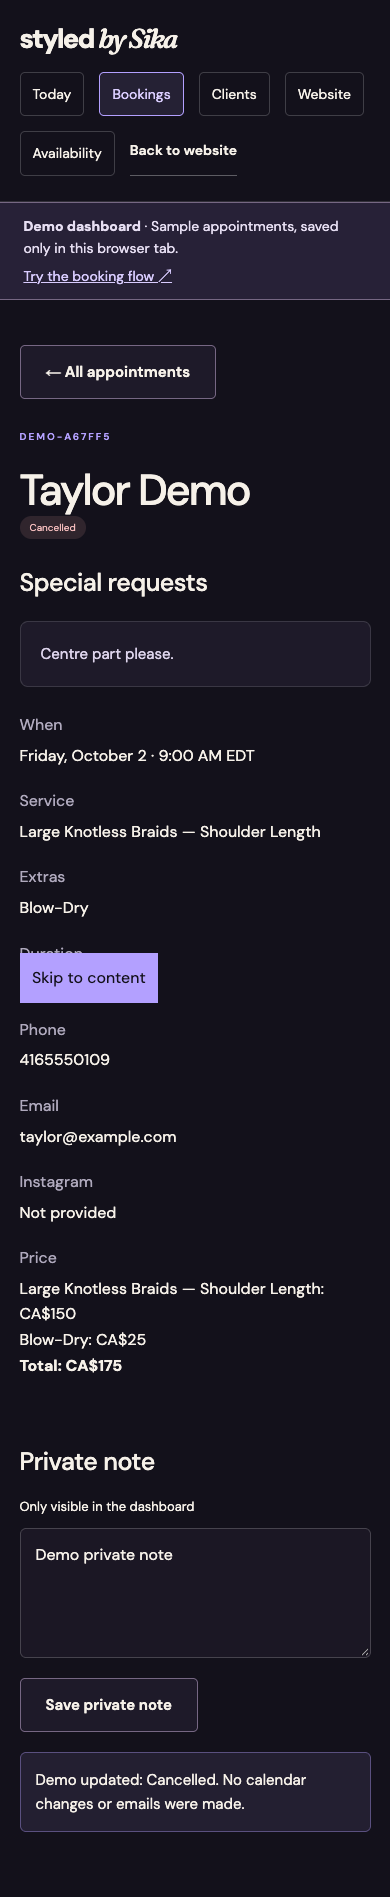
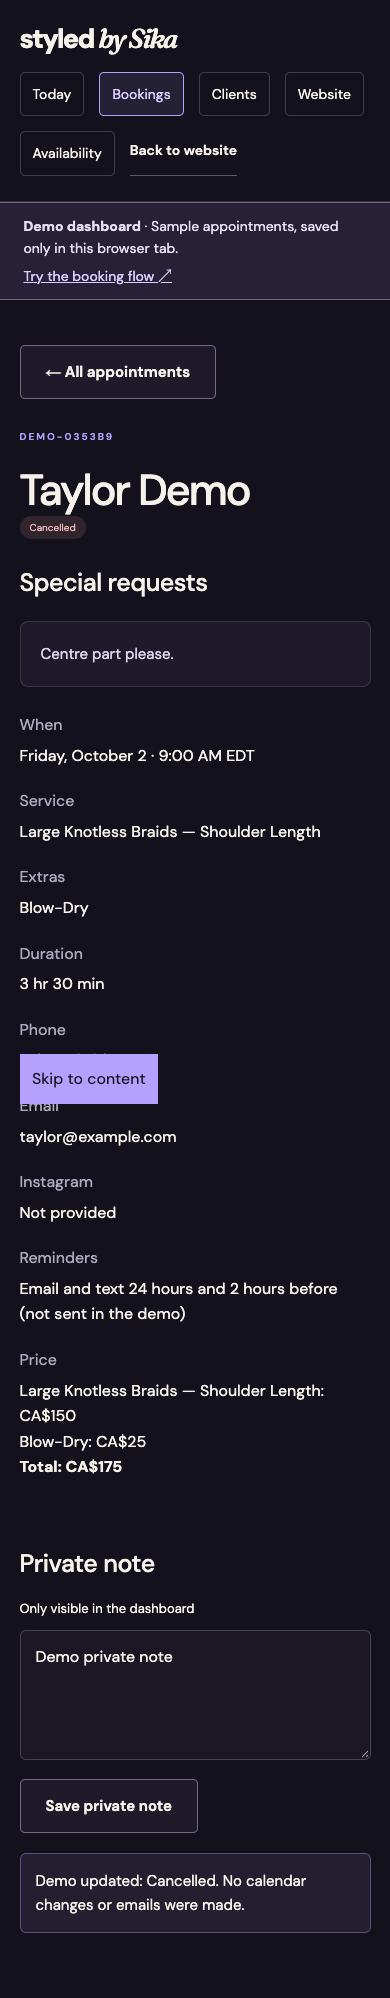
Send confirmations and reminders by email and text
- Reminders 24 hours and 2 hours before every pending or confirmed
  appointment; pending ones are told the deposit is still needed. Each
  reminder is claimed in the database before sending (migration 007),
  and the 24-hour one is skipped for bookings made less than a day out.
- Optional Twilio texts for booking received, deposit received,
  cancellation and both reminders; email-only when Twilio isn't set.
- Supabase pg_cron calls /api/jobs every 10 minutes (npm run
  cron:setup), which also retries failed confirmations.
- Booking detail shows reminder status; the booking form says where
  confirmations and reminders go.

diff --git a/components/booking-flow.tsx b/components/booking-flow.tsx
@@ -20,7 +20,7 @@ type Receipt={id:string;reference:string;start_at:string;end_at:string;price_cen
 const policyLink=<Link href="/#before-you-book" target="_blank">booking policies</Link>;
 // Links use readable slugs; ids are accepted too. Resolved on the client so demo edits (new services) work as well.
 function resolve(catalog:Catalog,service:string,extras:string[]):Selection{const s=catalog.services.find(x=>x.slug===service||x.id===service);return {service:s?.id??'',extras:[...new Set(extras.map(x=>catalog.extras.find(e=>(e.slug===x||e.id===x)&&e.bookable)?.id).filter((id):id is string=>!!id))]};}
-export function BookingFlow({content,initialService,initialExtras,ready}:{content:SiteContent;initialService:string;initialExtras:string[];ready:boolean}){
+export function BookingFlow({content,initialService,initialExtras,ready,smsEnabled=false}:{content:SiteContent;initialService:string;initialExtras:string[];ready:boolean;smsEnabled?:boolean}){
  const site=useSiteContent(content);
  const catalog=useMemo<Catalog>(()=>({services:site.services,extras:site.extras,placeholder:site.placeholder}),[site]);
  const [selection,setSelection]=useState<Selection>(()=>resolve(catalog,initialService,initialExtras));
@@ -46,7 +46,7 @@ export function BookingFlow({content,initialService,initialExtras,ready}:{conten
  return <div id="booking-top"><div className="booking-progress" aria-label={`Step ${step+1} of 4`}>{['Service','Date & time','Details','Review'].map((s,i)=><span className={step===i?'active':''} key={s} aria-current={step===i?'step':undefined}><b>{i+1}</b>{s}</span>)}</div><div className="estimator-grid"><div>
  {step===0&&picker}
  {step===1&&<section><h2 className="small-heading">Choose a date and time.</h2><p className="muted">All times in Vaughan, Ontario (America/Toronto).</p><div className="calendar-header"><button className="icon-button" aria-label="Previous month" disabled={month<=startOfMonth(new Date())} onClick={()=>setMonth(addMonths(month,-1))}><ChevronLeft size={18}/></button><strong>{format(month,'MMMM yyyy')}</strong><button className="icon-button" aria-label="Next month" disabled={month>=startOfMonth(new Date(Date.now()+60*86400000))} onClick={()=>setMonth(addMonths(month,1))}><ChevronRight size={18}/></button></div><div className="calendar-grid">{['Su','Mo','Tu','We','Th','Fr','Sa'].map(d=><span className="weekday" key={d}>{d}</span>)}{Array.from({length:month.getDay()},(_,i)=><span key={`blank-${i}`}/>)}{Array.from({length:getDaysInMonth(month)},(_,i)=>{const date=format(new Date(month.getFullYear(),month.getMonth(),i+1),'yyyy-MM-dd');return <button key={date} type="button" aria-label={format(new Date(month.getFullYear(),month.getMonth(),i+1),'EEEE, MMMM d')} aria-pressed={day===date} disabled={!slots[date]?.length||loading} className={day===date?'selected':''} onClick={()=>{setDay(date);setStart('');}}>{i+1}</button>;})}</div><p className="fine-print" role="status">{loading?'Checking the calendar…':isDemo?'Sample appointment times for demonstration only.':'Highlighted dates have available times.'}</p>{day&&<fieldset><legend>Available times</legend><div className="chips">{slots[day]?.map(time=><button type="button" className={`chip ${start===time?'selected':''}`} aria-pressed={start===time} key={time} onClick={()=>{setStart(time);setKey(crypto.randomUUID());}}>{formatInTimeZone(time,'America/Toronto','h:mm a')}</button>)}</div></fieldset>}<p className="notice">None of these times work? <a className="text-link" href={ig.dm} target="_blank" rel="noreferrer">Message me on Instagram ↗</a></p></section>}
- {step===2&&<form id="details-form" onSubmit={form.handleSubmit(()=>move(3))} noValidate><h2 className="small-heading">Your contact details.</h2><div className="form-grid">{([['name','Full name'],['phone','Phone number'],['email','Email address'],['instagram','Instagram handle (optional)']] as const).map(([key,label])=><div key={key}><label className="field-label" htmlFor={key}>{label}</label><input id={key} {...form.register(key)} type={key==='email'?'email':key==='phone'?'tel':'text'} autoComplete={key==='name'?'name':key==='phone'?'tel':key==='email'?'email':'off'} aria-invalid={!!form.formState.errors[key]} aria-describedby={form.formState.errors[key]?`${key}-error`:undefined}/>{form.formState.errors[key]&&<p className="field-error" id={`${key}-error`}>{form.formState.errors[key]?.message}</p>}</div>)}<div className="span-two"><label className="field-label" htmlFor="notes">Anything you’d like me to know? (optional)</label><textarea id="notes" {...form.register('notes')} maxLength={300} placeholder="Special requests or anything I should know about your hair…"/><span className="fine-print">Up to 300 characters.</span></div><label className="honeypot" aria-hidden="true">Website<input {...form.register('website')} tabIndex={-1} autoComplete="off"/></label><label className="check-label span-two"><input type="checkbox" {...form.register('prep')}/><span>I have read and agree to the {policyLink}.</span></label>{form.formState.errors.prep&&<p className="field-error">{form.formState.errors.prep.message}</p>}</div></form>}
+ {step===2&&<form id="details-form" onSubmit={form.handleSubmit(()=>move(3))} noValidate><h2 className="small-heading">Your contact details.</h2><div className="form-grid">{([['name','Full name'],['phone','Phone number'],['email','Email address'],['instagram','Instagram handle (optional)']] as const).map(([key,label])=><div key={key}><label className="field-label" htmlFor={key}>{label}</label><input id={key} {...form.register(key)} type={key==='email'?'email':key==='phone'?'tel':'text'} autoComplete={key==='name'?'name':key==='phone'?'tel':key==='email'?'email':'off'} aria-invalid={!!form.formState.errors[key]} aria-describedby={form.formState.errors[key]?`${key}-error`:undefined}/>{key==='phone'&&smsEnabled&&<p className="fine-print">Your confirmation and reminders are texted here.</p>}{key==='email'&&<p className="fine-print">Your confirmation and reminders are emailed here.</p>}{form.formState.errors[key]&&<p className="field-error" id={`${key}-error`}>{form.formState.errors[key]?.message}</p>}</div>)}<div className="span-two"><label className="field-label" htmlFor="notes">Anything you’d like me to know? (optional)</label><textarea id="notes" {...form.register('notes')} maxLength={300} placeholder="Special requests or anything I should know about your hair…"/><span className="fine-print">Up to 300 characters.</span></div><label className="honeypot" aria-hidden="true">Website<input {...form.register('website')} tabIndex={-1} autoComplete="off"/></label><label className="check-label span-two"><input type="checkbox" {...form.register('prep')}/><span>I have read and agree to the {policyLink}.</span></label>{form.formState.errors.prep&&<p className="field-error">{form.formState.errors.prep.message}</p>}</div></form>}
  {step===3&&<section><h2 className="small-heading">Review your appointment.</h2><dl className="review-list"><dt>Service</dt><dd>{q?.service.name}</dd><dt>Extras</dt><dd>{q?.extras.map(e=>e.name).join(', ')||'None'}</dd><dt>Your time</dt><dd>{start&&formatInTimeZone(start,'America/Toronto','EEEE, MMMM d · h:mm a zzz')}</dd><dt>Your details</dt><dd>{form.getValues('name')}<br/>{form.getValues('phone')}<br/>{form.getValues('email')}</dd><dt>Your notes</dt><dd>{form.getValues('notes')||'No special requests.'}</dd></dl><div className="notice">{isDemo?'This will save a sample appointment in this browser tab. No calendar event, email, or payment will be created.':'Your appointment is confirmed once your deposit is received. Deposit details appear after your request is saved.'}</div></section>}
  {error&&<div role="alert" className="status-message">{error}</div>}<div className="booking-actions">{step>0?<button className="button button-outline" onClick={()=>move(step-1)} disabled={submitting}>Back</button>:<span/>}{step===2?<button className="button" type="submit" form="details-form">Review booking <ArrowRight size={17}/></button>:step===3?<button className="button" onClick={submit} disabled={submitting}>{submitting?'Saving your appointment…':'Confirm booking'}</button>:<button className="button" disabled={!q||(step===1&&!start)} onClick={()=>move(step+1)}> {step===0?'Choose your time':'Your details'} <ArrowRight size={17}/></button>}</div></div>{summary}</div></div>;
 }

diff --git a/app/admin/bookings/[id]/page.tsx b/app/admin/bookings/[id]/page.tsx
@@ -8,4 +8,4 @@ import { statusLabel } from '@/lib/admin';
 import { priceLabel, durationLabel } from '@/lib/pricing';
 import type { Booking } from '@/lib/types';
 import { AdminActions } from '@/components/admin-actions';
-export default async function Detail({params}:{params:Promise<{id:string}>}){await requireAdmin();const {id}=await params;if(!z.uuid().safeParse(id).success)notFound();const {data,error}=await db().from('bookings').select('*').eq('id',id).maybeSingle();if(error)throw error;if(!data)notFound();const b=data as Booking;return <><Link href="/admin/bookings" className="text-link">← All bookings</Link><div className="eyebrow" style={{marginTop:30}}>{b.reference}</div><h1 className="page-title">{b.client_name}</h1><span className={`badge ${b.status}`}>{statusLabel[b.status]}</span>{b.sync_state!=='synced'&&<p className="notice">Calendar or email confirmation is still processing. David has been alerted if an update failed.</p>}<h2 className="small-heading">Special requests</h2><div className="notice" style={{whiteSpace:'pre-wrap'}}>{b.client_notes||'No special requests.'}</div><dl className="review-list"><dt>When</dt><dd>{formatInTimeZone(b.start_at,b.snapshot.timezone,'EEEE, MMMM d, yyyy · h:mm a zzz')}</dd><dt>Service</dt><dd>{b.snapshot.style}</dd><dt>Extras</dt><dd>{b.snapshot.addons.join(', ')||'None'}</dd><dt>Time together</dt><dd>{durationLabel(b.duration_min)}</dd><dt>Phone</dt><dd><a href={`tel:${b.client_phone}`}>{b.client_phone} ↗</a> · <a href={`sms:${b.client_phone}`}>Text client</a></dd><dt>Email</dt><dd><a href={`mailto:${b.client_email}`}>{b.client_email} ↗</a></dd><dt>Instagram</dt><dd>{b.client_instagram?<a href={`https://instagram.com/${encodeURIComponent(b.client_instagram.replace(/^@/,''))}`} target="_blank" rel="noreferrer">{b.client_instagram} ↗</a>:'Not provided'}</dd><dt>Price</dt><dd>{b.snapshot.breakdown.map((l,i)=><div key={i}>{l.label}: {priceLabel(l)}</div>)}<strong>Total: {b.snapshot.estimate}</strong></dd><dt>Booked</dt><dd>{formatInTimeZone(b.created_at,b.snapshot.timezone,'MMM d, yyyy · h:mm a')}</dd></dl>{b.calendar_url&&<a className="text-link" href={b.calendar_url} target="_blank" rel="noreferrer">Open in Google Calendar ↗</a>}<AdminActions id={id} status={b.status} initialNote={b.admin_notes??''}/></>;}
+export default async function Detail({params}:{params:Promise<{id:string}>}){await requireAdmin();const {id}=await params;if(!z.uuid().safeParse(id).success)notFound();const {data,error}=await db().from('bookings').select('*').eq('id',id).maybeSingle();if(error)throw error;if(!data)notFound();const b=data as Booking;return <><Link href="/admin/bookings" className="text-link">← All bookings</Link><div className="eyebrow" style={{marginTop:30}}>{b.reference}</div><h1 className="page-title">{b.client_name}</h1><span className={`badge ${b.status}`}>{statusLabel[b.status]}</span>{b.sync_state!=='synced'&&<p className="notice">Calendar or email confirmation is still processing. David has been alerted if an update failed.</p>}<h2 className="small-heading">Special requests</h2><div className="notice" style={{whiteSpace:'pre-wrap'}}>{b.client_notes||'No special requests.'}</div><dl className="review-list"><dt>When</dt><dd>{formatInTimeZone(b.start_at,b.snapshot.timezone,'EEEE, MMMM d, yyyy · h:mm a zzz')}</dd><dt>Service</dt><dd>{b.snapshot.style}</dd><dt>Extras</dt><dd>{b.snapshot.addons.join(', ')||'None'}</dd><dt>Time together</dt><dd>{durationLabel(b.duration_min)}</dd><dt>Phone</dt><dd><a href={`tel:${b.client_phone}`}>{b.client_phone} ↗</a> · <a href={`sms:${b.client_phone}`}>Text client</a></dd><dt>Email</dt><dd><a href={`mailto:${b.client_email}`}>{b.client_email} ↗</a></dd><dt>Instagram</dt><dd>{b.client_instagram?<a href={`https://instagram.com/${encodeURIComponent(b.client_instagram.replace(/^@/,''))}`} target="_blank" rel="noreferrer">{b.client_instagram} ↗</a>:'Not provided'}</dd><dt>Price</dt><dd>{b.snapshot.breakdown.map((l,i)=><div key={i}>{l.label}: {priceLabel(l)}</div>)}<strong>Total: {b.snapshot.estimate}</strong></dd><dt>Booked</dt><dd>{formatInTimeZone(b.created_at,b.snapshot.timezone,'MMM d, yyyy · h:mm a')}</dd><dt>Reminders</dt><dd>{[['24 hours before',b.reminder_day_sent_at],['2 hours before',b.reminder_2h_sent_at]].map(([label,at])=><div key={label}>{label}: {at?`sent ${formatInTimeZone(at,b.snapshot.timezone,'MMM d, h:mm a')}`:['cancelled','no_show','completed'].includes(b.status)?'not needed':'scheduled'}</div>)}</dd></dl>{b.calendar_url&&<a className="text-link" href={b.calendar_url} target="_blank" rel="noreferrer">Open in Google Calendar ↗</a>}<AdminActions id={id} status={b.status} initialNote={b.admin_notes??''}/></>;}

diff --git a/lib/reminder-rules.ts b/lib/reminder-rules.ts
@@ -1,0 +1,54 @@
+import { formatInTimeZone } from 'date-fns-tz';
+import type { SiteText } from './content';
+
+// When reminders go out, in minutes before the appointment. The scheduler checks every 10 minutes.
+export const reminderOffsets = { day: 24 * 60, soon: 120 } as const;
+export type ReminderKind = keyof typeof reminderOffsets;
+type Timing = { status: string; start_at: string; created_at: string; reminder_day_sent_at?: string | null; reminder_2h_sent_at?: string | null };
+
+// Which reminder (if any) is due now. The 2-hour one wins; the 24-hour one is skipped when the client
+// booked less than a day ahead (their confirmation just arrived) or when it is already within 3 hours.
+export function dueReminder(b: Timing, now: Date): ReminderKind | null {
+  if (!['pending_deposit', 'confirmed'].includes(b.status)) return null;
+  const start = new Date(b.start_at).getTime(), t = now.getTime(), minute = 60000;
+  if (start <= t) return null;
+  if (!b.reminder_2h_sent_at && start - t <= reminderOffsets.soon * minute) return 'soon';
+  const bookedAhead = start - new Date(b.created_at).getTime();
+  if (!b.reminder_day_sent_at && start - t <= reminderOffsets.day * minute && start - t > 3 * 60 * minute && bookedAhead > 26 * 60 * minute) return 'day';
+  return null;
+}
+
+// Canadian and US numbers to E.164 (+1XXXXXXXXXX); anything else must already include its country code.
+export function toE164(phone: string): string | null {
+  const digits = phone.replace(/[^\d+]/g, '');
+  if (/^\+\d{8,15}$/.test(digits)) return digits;
+  const d = digits.replace(/\+/g, '');
+  if (d.length === 10) return `+1${d}`;
+  if (d.length === 11 && d.startsWith('1')) return `+${d}`;
+  return null;
+}
+
+type BookingLike = { client_name: string; start_at: string; status: string; snapshot: { style: string; timezone: string } };
+const first = (name: string) => name.trim().split(/\s+/)[0] || 'there';
+
+export function reminderMessage(kind: ReminderKind, b: BookingLike, text: SiteText) {
+  const tz = b.snapshot.timezone || 'America/Toronto';
+  const when = formatInTimeZone(b.start_at, tz, kind === 'day' ? "EEEE, MMMM d 'at' h:mm a" : "'today at' h:mm a");
+  const pending = b.status === 'pending_deposit';
+  const prep = text.policies.find(p => p.id === 'hair-prep');
+  const prepLines = prep ? [prep.intro, ...prep.items.map(i => `• ${i}`), prep.outro].filter(Boolean).join('\n') : '';
+  const deposit = pending ? `\n\nYour appointment is not confirmed until your deposit has been received.\n${text.depositSummary}` : '';
+  const subject = kind === 'day' ? 'Reminder: your Styled by Sika appointment tomorrow' : 'See you soon: your Styled by Sika appointment is today';
+  const email = `Hi ${first(b.client_name)},\n\nThis is a reminder of your ${b.snapshot.style} appointment ${when}.${deposit}${kind === 'day' && prepLines ? `\n\n${prepLines}` : ''}\n\nNeed to reschedule? A minimum of 48 hours’ notice is required. Message ${text.instagramHandle} on Instagram or reply to ${text.email}.\n\nThank you for choosing Styled by Sika 🤎`;
+  const sms = kind === 'day'
+    ? `Styled by Sika: reminder of your ${b.snapshot.style} appointment ${when}.${pending ? ' Not confirmed until your deposit is received.' : ''} Please arrive with hair washed, dried and detangled. Questions? DM ${text.instagramHandle}. Reply STOP to opt out.`
+    : `Styled by Sika: see you ${when} for your ${b.snapshot.style} appointment.${pending ? ' Deposit still needed to confirm.' : ''} Reply STOP to opt out.`;
+  return { subject, email, sms };
+}
+
+export function bookingSms(kind: 'created' | 'confirmed' | 'cancelled', b: BookingLike, text: SiteText) {
+  const when = formatInTimeZone(b.start_at, b.snapshot.timezone || 'America/Toronto', "EEE, MMM d 'at' h:mm a");
+  if (kind === 'created') return `Styled by Sika: request received for ${b.snapshot.style} on ${when}. Your appointment is confirmed once your deposit is received; details are in your email. Reply STOP to opt out.`;
+  if (kind === 'confirmed') return `Styled by Sika: deposit received. Your ${b.snapshot.style} appointment on ${when} is confirmed. See you then!`;
+  return `Styled by Sika: your appointment on ${when} has been cancelled. Questions? DM ${text.instagramHandle}.`;
+}

diff --git a/tests/unit/reminders.test.ts b/tests/unit/reminders.test.ts
@@ -1,0 +1,48 @@
+import { describe, expect, it } from 'vitest';
+import { bookingSms, dueReminder, reminderMessage, toE164 } from '../../lib/reminder-rules';
+import { defaultText } from '../../lib/content';
+const start = '2027-03-10T15:00:00Z'; // 10:00 AM Toronto (EST)
+const at = (hoursBefore: number) => new Date(new Date(start).getTime() - hoursBefore * 3600000);
+const booking = { status: 'confirmed', start_at: start, created_at: '2027-03-01T12:00:00Z', reminder_day_sent_at: null, reminder_2h_sent_at: null };
+describe('appointment reminders', () => {
+ it('sends the 24-hour reminder from a day before until three hours before', () => {
+  expect(dueReminder(booking, at(25))).toBeNull();
+  expect(dueReminder(booking, at(24))).toBe('day');
+  expect(dueReminder(booking, at(4))).toBe('day');
+  expect(dueReminder(booking, at(2.5))).toBeNull();
+  expect(dueReminder({ ...booking, reminder_day_sent_at: at(24).toISOString() }, at(20))).toBeNull();
+ });
+ it('sends the 2-hour reminder once, and never after the start', () => {
+  expect(dueReminder(booking, at(2))).toBe('soon');
+  expect(dueReminder(booking, at(0.5))).toBe('soon');
+  expect(dueReminder({ ...booking, reminder_2h_sent_at: at(2).toISOString() }, at(1))).toBeNull();
+  expect(dueReminder(booking, at(-0.1))).toBeNull();
+ });
+ it('skips the 24-hour reminder when the client booked less than a day ahead, and skips inactive bookings', () => {
+  expect(dueReminder({ ...booking, created_at: at(25).toISOString() }, at(23))).toBeNull();
+  expect(dueReminder({ ...booking, created_at: at(25).toISOString() }, at(2))).toBe('soon');
+  for (const status of ['cancelled', 'no_show', 'completed']) expect(dueReminder({ ...booking, status }, at(2))).toBeNull();
+  expect(dueReminder({ ...booking, status: 'pending_deposit' }, at(24))).toBe('day');
+ });
+ it('formats phone numbers for texting', () => {
+  expect(toE164('416-555-0101')).toBe('+14165550101');
+  expect(toE164('1 (647) 555 0101')).toBe('+16475550101');
+  expect(toE164('+44 7700 900123')).toBe('+447700900123');
+  expect(toE164('12345')).toBeNull();
+ });
+ it('writes clear reminder and booking messages with her details', () => {
+  const b = { client_name: 'Taylor Client', start_at: start, status: 'pending_deposit', snapshot: { style: 'Large Knotless Braids — Shoulder Length', timezone: 'America/Toronto' } };
+  const day = reminderMessage('day', b, defaultText());
+  expect(day.subject).toContain('tomorrow');
+  expect(day.email).toContain('Hi Taylor');
+  expect(day.email).toContain('Wednesday, March 10 at 10:00 AM');
+  expect(day.email).toContain('not confirmed until your deposit');
+  expect(day.email).toContain('Freshly washed');
+  expect(day.sms).toContain('@styledby.sika');
+  expect(day.sms.length).toBeLessThan(320);
+  const soon = reminderMessage('soon', { ...b, status: 'confirmed' }, defaultText());
+  expect(soon.sms).toContain('today at 10:00 AM');
+  expect(soon.sms).not.toContain('Deposit');
+  expect(bookingSms('confirmed', b, defaultText())).toContain('confirmed');
+ });
+});

diff --git a/lib/reminders.ts b/lib/reminders.ts
@@ -1,0 +1,39 @@
+import 'server-only';
+import { db, getContent } from './db';
+import { dueReminder, reminderMessage, toE164 } from './reminder-rules';
+import { emailConfigured, sendEmail, sendSms, smsConfigured } from './notify';
+import type { Booking } from './types';
+
+// Called by the scheduler (GET /api/jobs every 10 minutes). Each reminder is claimed in the database before
+// sending, so overlapping runs never send it twice.
+export async function sendDueReminders(now = new Date()) {
+  if (!emailConfigured() && !smsConfigured()) return 0;
+  const client = db();
+  const { data, error } = await client.from('bookings').select('*').in('status', ['pending_deposit', 'confirmed'])
+    .gt('start_at', now.toISOString()).lte('start_at', new Date(now.getTime() + 25 * 3600000).toISOString());
+  if (error) throw error;
+  const text = (await getContent()).text;
+  let sent = 0;
+  for (const b of (data ?? []) as (Booking & { reminder_day_sent_at: string | null; reminder_2h_sent_at: string | null })[]) {
+    const kind = dueReminder(b, now);
+    if (!kind) continue;
+    const column = kind === 'day' ? 'reminder_day_sent_at' : 'reminder_2h_sent_at';
+    // A 2-hour reminder also retires a 24-hour one that never went out.
+    const claim = { [column]: now.toISOString(), ...(kind === 'soon' && !b.reminder_day_sent_at ? { reminder_day_sent_at: now.toISOString() } : {}) };
+    const { data: claimed, error: claimError } = await client.from('bookings').update(claim).eq('id', b.id).is(column, null).select('id');
+    if (claimError) throw claimError;
+    if (!claimed?.length) continue;
+    const message = reminderMessage(kind, b, text);
+    const results = await Promise.allSettled([
+      emailConfigured() && b.client_email ? sendEmail(b.client_email, message.subject, message.email, `${b.id}-reminder-${kind}`) : Promise.resolve(),
+      smsConfigured() && toE164(b.client_phone) ? sendSms(toE164(b.client_phone)!, message.sms) : Promise.resolve(),
+    ]);
+    const failures = results.filter(r => r.status === 'rejected');
+    if (failures.length === results.length) {
+      // Nothing went out: release the claim so the next run tries again.
+      await client.from('bookings').update({ [column]: null }).eq('id', b.id);
+      console.error('Reminder failed', { booking: b.id, kind, errors: failures.map(f => (f as PromiseRejectedResult).reason?.message) });
+    } else { sent++; if (failures.length) console.error('Reminder partly sent', { booking: b.id, kind }); }
+  }
+  return sent;
+}

diff --git a/components/demo-dashboard.tsx b/components/demo-dashboard.tsx
@@ -53,7 +53,7 @@ export function DemoDashboard() {
         <button className="button button-outline" onClick={() => setSelected(null)}>← All appointments</button>
         <div className="eyebrow" style={{marginTop:30}}>{booking.reference}</div><h1 className="page-title">{booking.client_name}</h1><span className={`badge ${booking.status}`}>{labels[booking.status]}</span>
         <h2 className="small-heading">Special requests</h2><p className="notice">{booking.client_notes || 'No special requests.'}</p>
-        <dl className="review-list"><dt>When</dt><dd>{formatInTimeZone(booking.start_at,'America/Toronto','EEEE, MMMM d · h:mm a zzz')}</dd><dt>Service</dt><dd>{booking.snapshot.style}</dd><dt>Extras</dt><dd>{booking.snapshot.addons.join(', ') || 'None'}</dd><dt>Duration</dt><dd>{durationLabel(booking.duration_min)}</dd><dt>Phone</dt><dd>{booking.client_phone}</dd><dt>Email</dt><dd>{booking.client_email}</dd><dt>Instagram</dt><dd>{booking.client_instagram || 'Not provided'}</dd><dt>Price</dt><dd>{booking.snapshot.breakdown.map((item,i) => <div key={i}>{item.label}: {priceLabel(item)}</div>)}<strong>Total: {booking.snapshot.estimate}</strong></dd></dl>
+        <dl className="review-list"><dt>When</dt><dd>{formatInTimeZone(booking.start_at,'America/Toronto','EEEE, MMMM d · h:mm a zzz')}</dd><dt>Service</dt><dd>{booking.snapshot.style}</dd><dt>Extras</dt><dd>{booking.snapshot.addons.join(', ') || 'None'}</dd><dt>Duration</dt><dd>{durationLabel(booking.duration_min)}</dd><dt>Phone</dt><dd>{booking.client_phone}</dd><dt>Email</dt><dd>{booking.client_email}</dd><dt>Instagram</dt><dd>{booking.client_instagram || 'Not provided'}</dd><dt>Reminders</dt><dd>Email and text 24 hours and 2 hours before (not sent in the demo)</dd><dt>Price</dt><dd>{booking.snapshot.breakdown.map((item,i) => <div key={i}>{item.label}: {priceLabel(item)}</div>)}<strong>Total: {booking.snapshot.estimate}</strong></dd></dl>
         <div className="admin-actions">
           {booking.status === 'pending_deposit' && <button className="button" onClick={() => update('confirmed')}>Mark deposit paid</button>}
           {booking.status === 'confirmed' && <button className="button" onClick={() => update('completed')}>Mark completed</button>}

diff --git a/lib/launch-readiness.ts b/lib/launch-readiness.ts
@@ -4,11 +4,14 @@ import type { BusinessSettings } from './types';
 export const bookingEnvironmentKeys = [
  'NEXT_PUBLIC_SUPABASE_URL', 'NEXT_PUBLIC_SUPABASE_ANON_KEY', 'SUPABASE_SERVICE_ROLE_KEY', 'ADMIN_EMAIL',
  'RESEND_API_KEY', 'BRAIDER_EMAIL', 'FROM_EMAIL', 'NEXT_PUBLIC_SITE_URL',
+ // Authorises the scheduler that sends reminders and retries (npm run cron:setup).
+ 'CRON_SECRET',
 ] as const;
-// Nice to have; the site works without them (no Google Calendar sync, in-memory rate limiting, no cron retries).
+// Nice to have; the site works without them (no Google Calendar sync, in-memory rate limiting, email-only messages).
 export const optionalEnvironmentKeys = [
  'GOOGLE_SERVICE_ACCOUNT_EMAIL', 'GOOGLE_SERVICE_ACCOUNT_PRIVATE_KEY', 'GOOGLE_CALENDAR_ID',
- 'UPSTASH_REDIS_REST_URL', 'UPSTASH_REDIS_REST_TOKEN', 'CRON_SECRET', 'MAINTAINER_EMAIL',
+ 'UPSTASH_REDIS_REST_URL', 'UPSTASH_REDIS_REST_TOKEN', 'MAINTAINER_EMAIL',
+ 'TWILIO_ACCOUNT_SID', 'TWILIO_AUTH_TOKEN', 'TWILIO_FROM',
 ] as const;
 
 export function bookingConfigurationIssues(settings: BusinessSettings | null, env: Record<string, string | undefined>): string[] {
@@ -19,6 +22,8 @@ export function bookingConfigurationIssues(settings: BusinessSettings | null, en
  const google = ['GOOGLE_SERVICE_ACCOUNT_EMAIL', 'GOOGLE_SERVICE_ACCOUNT_PRIVATE_KEY', 'GOOGLE_CALENDAR_ID'].filter(k => env[k]?.trim()).length;
  if (google > 0 && google < 3) issues.push('Google Calendar needs all three GOOGLE_* values, or none.');
  if ((env.UPSTASH_REDIS_REST_URL ? 1 : 0) + (env.UPSTASH_REDIS_REST_TOKEN ? 1 : 0) === 1) issues.push('Upstash needs both URL and token, or neither.');
+ const twilio = ['TWILIO_ACCOUNT_SID', 'TWILIO_AUTH_TOKEN', 'TWILIO_FROM'].filter(k => env[k]?.trim()).length;
+ if (twilio > 0 && twilio < 3) issues.push('Text messages need all three TWILIO_* values, or none.');
  if (env.NEXT_PUBLIC_SITE_URL) {
   try { const url = new URL(env.NEXT_PUBLIC_SITE_URL); if(url.protocol!=='https:' || ['localhost','127.0.0.1'].includes(url.hostname)) issues.push('Set an HTTPS public site URL.'); }
   catch { issues.push('Set a valid public site URL.'); }

diff --git a/lib/types.ts b/lib/types.ts
@@ -5,4 +5,4 @@ export type Selection = { service: string; extras: string[] };
 export type PriceLine = { label: string; cents: number; max_cents?: number | null; plus?: boolean };
 export type BusinessSettings = { timezone: string; buffer_min: number; minimum_notice_hours: number; window_days: number; deposit_instructions: string | null; deposit_cents: number | null; prices_confirmed: boolean; hours_confirmed: boolean; policies_confirmed: boolean; cancellation_policy?: string | null; lateness_policy?: string | null; guest_policy?: string | null };
 // Database columns keep their original names: style_id is the service and addon_ids are the extras.
-export type Booking = { id: string; reference: string; status: 'pending_deposit'|'confirmed'|'completed'|'cancelled'|'no_show'; style_id: string; addon_ids: string[]; start_at: string; end_at: string; blocked_until: string; price_cents: number; duration_min: number; client_name: string; client_phone: string; client_email: string; client_instagram: string; client_notes: string; admin_notes: string; google_event_id: string | null; calendar_url: string | null; snapshot: { style: string; addons: string[]; breakdown: PriceLine[]; estimate: string; timezone: string; deposit: string }; sync_state: string; created_at: string };
+export type Booking = { id: string; reference: string; status: 'pending_deposit'|'confirmed'|'completed'|'cancelled'|'no_show'; style_id: string; addon_ids: string[]; start_at: string; end_at: string; blocked_until: string; price_cents: number; duration_min: number; client_name: string; client_phone: string; client_email: string; client_instagram: string; client_notes: string; admin_notes: string; google_event_id: string | null; calendar_url: string | null; snapshot: { style: string; addons: string[]; breakdown: PriceLine[]; estimate: string; timezone: string; deposit: string }; sync_state: string; created_at: string; reminder_day_sent_at?: string | null; reminder_2h_sent_at?: string | null };

diff --git a/lib/jobs.ts b/lib/jobs.ts
@@ -1,6 +1,8 @@
 import 'server-only';
 import { Resend } from 'resend';
-import { db } from './db';
+import { db, getContent } from './db';
+import { bookingSms, toE164 } from './reminder-rules';
+import { sendSms, smsConfigured } from './notify';
 import { syncCalendar } from './calendar';
 import { makeICS } from './ics';
 import { durationLabel } from './pricing';
@@ -26,6 +28,8 @@ export async function processJob(target?:string){
  const sent=await resend.emails.send({from:process.env.FROM_EMAIL!,to:b.client_email,subject,text,...(job.kind==='created'?{attachments:[{filename:'styled-by-sika.ics',content:Buffer.from(makeICS(b)).toString('base64')}]}:{})},{idempotencyKey:`${job.id}-client`});if(sent.error)throw new Error(sent.error.message);
  if(job.kind==='created') {const sent=await resend.emails.send({from:process.env.FROM_EMAIL!,to:process.env.BRAIDER_EMAIL!,subject:`New booking · ${b.reference}`,text:`${summary}\n${b.client_name}\n${b.client_phone}\n${b.client_email}\n${b.client_instagram??''}\nRequests: ${b.client_notes||'None'}\n${process.env.NEXT_PUBLIC_SITE_URL}/admin/bookings/${b.id}${event.url?`\n${event.url}`:''}`},{idempotencyKey:`${job.id}-braider`});if(sent.error)throw new Error(sent.error.message);}
  }
+ // Texts have no idempotency key at Twilio, so record the send on the job and skip it on retries.
+ if(smsConfigured()&&!job.sms_sent_at&&(b.status!=='cancelled'||job.kind==='cancelled')){const to=toE164(b.client_phone);if(to){await sendSms(to,bookingSms(job.kind,b,(await getContent()).text));await client.from('booking_jobs').update({sms_sent_at:new Date().toISOString()}).eq('id',job.id);}}
  const {error:doneError}=await client.from('booking_jobs').update({completed_at:new Date().toISOString(),lease_until:null,last_error:null}).eq('id',job.id);if(doneError)throw doneError;
  const {error:syncError}=await client.from('bookings').update({sync_state:'synced'}).eq('id',b.id);if(syncError)throw syncError;
  return true;

diff --git a/app/(site)/book/page.tsx b/app/(site)/book/page.tsx
@@ -1,5 +1,6 @@
 import { bookingReady, getContent } from '@/lib/db';
 import { BookingFlow } from '@/components/booking-flow';
+import { isDemo } from '@/lib/demo';
 export const metadata={title:'Book an appointment'};export const dynamic='force-dynamic';
 // Links use readable slugs: /book?service=large-knotless-shoulder&extras=blow-dry (ids are also accepted).
-export default async function Book({searchParams}:{searchParams:Promise<Record<string,string|string[]|undefined>>}){const p=await searchParams;return <section className="section-wrap page-section narrow"><div className="eyebrow">APPOINTMENTS</div><h1 className="page-title">Book your <em>appointment.</em></h1><p className="page-intro">Choose your service and any extras. Prices are in Canadian dollars.</p><BookingFlow content={await getContent()} initialService={typeof p.service==='string'?p.service:''} initialExtras={typeof p.extras==='string'?p.extras.split(','):[]} ready={await bookingReady()}/></section>;}
+export default async function Book({searchParams}:{searchParams:Promise<Record<string,string|string[]|undefined>>}){const p=await searchParams;return <section className="section-wrap page-section narrow"><div className="eyebrow">APPOINTMENTS</div><h1 className="page-title">Book your <em>appointment.</em></h1><p className="page-intro">Choose your service and any extras. Prices are in Canadian dollars.</p><BookingFlow content={await getContent()} initialService={typeof p.service==='string'?p.service:''} initialExtras={typeof p.extras==='string'?p.extras.split(','):[]} ready={await bookingReady()} smsEnabled={isDemo||Boolean(process.env.TWILIO_ACCOUNT_SID&&process.env.TWILIO_AUTH_TOKEN&&process.env.TWILIO_FROM)}/></section>;}

diff --git a/lib/notify.ts b/lib/notify.ts
@@ -1,0 +1,20 @@
+import 'server-only';
+import { Resend } from 'resend';
+// Email goes through Resend; texts through Twilio. Texts are optional: without Twilio details nothing is texted.
+export const emailConfigured = () => Boolean(process.env.RESEND_API_KEY && process.env.FROM_EMAIL);
+export const smsConfigured = () => Boolean(process.env.TWILIO_ACCOUNT_SID && process.env.TWILIO_AUTH_TOKEN && process.env.TWILIO_FROM);
+
+export async function sendEmail(to: string, subject: string, text: string, idempotencyKey: string) {
+  const { error } = await new Resend(process.env.RESEND_API_KEY).emails.send({ from: process.env.FROM_EMAIL!, to, subject, text, replyTo: process.env.BRAIDER_EMAIL || undefined }, { idempotencyKey });
+  if (error) throw new Error(error.message);
+}
+
+export async function sendSms(to: string, body: string) {
+  const sid = process.env.TWILIO_ACCOUNT_SID!, from = process.env.TWILIO_FROM!;
+  const form = new URLSearchParams({ To: to, Body: body, ...(from.startsWith('MG') ? { MessagingServiceSid: from } : { From: from }) });
+  const res = await fetch(`https://api.twilio.com/2010-04-01/Accounts/${sid}/Messages.json`, {
+    method: 'POST', body: form, signal: AbortSignal.timeout(15000),
+    headers: { Authorization: `Basic ${Buffer.from(`${sid}:${process.env.TWILIO_AUTH_TOKEN}`).toString('base64')}`, 'Content-Type': 'application/x-www-form-urlencoded' },
+  });
+  if (!res.ok) throw new Error(`Text message failed (${res.status}).`);
+}

diff --git a/app/api/jobs/route.ts b/app/api/jobs/route.ts
@@ -1,5 +1,6 @@
 import { NextResponse } from 'next/server';
 import { processJob } from '@/lib/jobs';
+import { sendDueReminders } from '@/lib/reminders';
 import { timingSafeEqual } from 'node:crypto';
 export const maxDuration=60;
-export async function GET(req:Request){const expected=`Bearer ${process.env.CRON_SECRET??''}`,actual=req.headers.get('authorization')??'';if(!process.env.CRON_SECRET||Buffer.byteLength(expected)!==Buffer.byteLength(actual)||!timingSafeEqual(Buffer.from(expected),Buffer.from(actual)))return NextResponse.json({error:'Unauthorized'},{status:401});let processed=0;while(processed<3 && await processJob())processed++;return NextResponse.json({processed});}
+export async function GET(req:Request){const expected=`Bearer ${process.env.CRON_SECRET??''}`,actual=req.headers.get('authorization')??'';if(!process.env.CRON_SECRET||Buffer.byteLength(expected)!==Buffer.byteLength(actual)||!timingSafeEqual(Buffer.from(expected),Buffer.from(actual)))return NextResponse.json({error:'Unauthorized'},{status:401});let processed=0;while(processed<3 && await processJob())processed++;const reminders=await sendDueReminders();return NextResponse.json({processed,reminders});}
